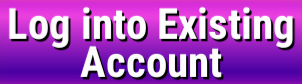
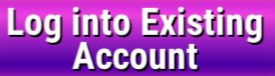
Updated some changed images which are hopefully now more resiliant... should really work on partial matching tech if this still is a problem in the future. Also added a rough fix for High5 and a way to only run one schedule from command line! e.x.

diff --git a/main.py b/main.py
@@ -1,4 +1,5 @@
 import os
+import sys
 import pyautogui
 import time
 import pytesseract
@@ -17,6 +18,9 @@ class RunSchedule(Enum):
   SixHours = 6
   EveryHour = 1
   All = 0
+
+  def isCompatibleWithRunSchedule(self, testedRunSchedule):
+      return testedRunSchedule == RunSchedule.All or testedRunSchedule == self
 
 
 CONFIG_BASE = "BASE"
@@ -384,7 +388,7 @@ async def claimLuckylandslots():
     base_path = "imgs/luckyland/"
     # Use the functions
     browser, page = await start_browser("https://luckylandslots.com/loader")
-    start_login_location = wait_for_image(base_path+"start-login.png", 20)
+    start_login_location = wait_for_image(base_path+"start-login.png", 50)
     
     if start_login_location:
         print("Looks like we need to login to lucky land!")
@@ -649,6 +653,8 @@ async def genericClaim(name, base_path, base_url, customNavigateToClaim=None, cl
             return report_failure(logging_prefix, f"{name_stub}_start_login_fail.png", f"Unable to find the login button to start the login process for some reason!")
             
         click_location(start_login_button)
+        time.sleep(0.2) # TODO this is a silly fix for High5 Casino :/ Make more generic in the future
+        click_location(start_login_button)
         
         # OPTIONAL - Try to find login selector if it was defined
         login_selection_image = base_path+"login_selection.png"
@@ -830,7 +836,7 @@ async def main(schedule = RunSchedule.All):
         logging.warn("Base configuration health check url wasn't defined so its ping will be skipped")
         
     try:        
-        if(schedule == RunSchedule.All or schedule == RunSchedule.SixHours):
+        if RunSchedule.SixHours.isCompatibleWithRunSchedule(schedule):
             await claimChumba()
             await claimPulsz()
             await claimLuckylandslots()
@@ -839,7 +845,7 @@ async def main(schedule = RunSchedule.All):
             await claimHigh5()
             await claimModo()
         
-        if(schedule == RunSchedule.All or schedule == RunSchedule.EveryHour):
+        if RunSchedule.EveryHour.isCompatibleWithRunSchedule(schedule):
             await claimChancedV2()
     except KeyboardInterrupt:
         pass
@@ -856,11 +862,22 @@ def startup(schedule = RunSchedule.All):
 CONFIGURATION = load_configuration()
 
 if __name__ ==  '__main__':
-    startup()
+    run_schedule = RunSchedule.All
+    if len(sys.argv) > 1:
+        run_schedule_raw = sys.argv[1].lower()
+        if run_schedule_raw == "hourly":
+            run_schedule = RunSchedule.EveryHour
+        elif run_schedule_raw == "six-hours":
+            run_schedule = RunSchedule.SixHours
+
+    startup(run_schedule)
     
     scheduler = BackgroundScheduler()
-    scheduler.add_job(lambda schedule = RunSchedule.EveryHour: startup(schedule), 'interval', hours=1, minutes=2)
-    scheduler.add_job(lambda schedule = RunSchedule.SixHours:  startup(schedule), 'interval', hours=6, minutes=2)
+    if(RunSchedule.EveryHour.isCompatibleWithRunSchedule(run_schedule)):
+        scheduler.add_job(lambda schedule = RunSchedule.EveryHour: startup(schedule), 'interval', hours=1, minutes=2)
+
+    if(RunSchedule.SixHours.isCompatibleWithRunSchedule(run_schedule)):
+        scheduler.add_job(lambda schedule = RunSchedule.SixHours:  startup(schedule), 'interval', hours=6, minutes=2)
     
     scheduler.start()
     
